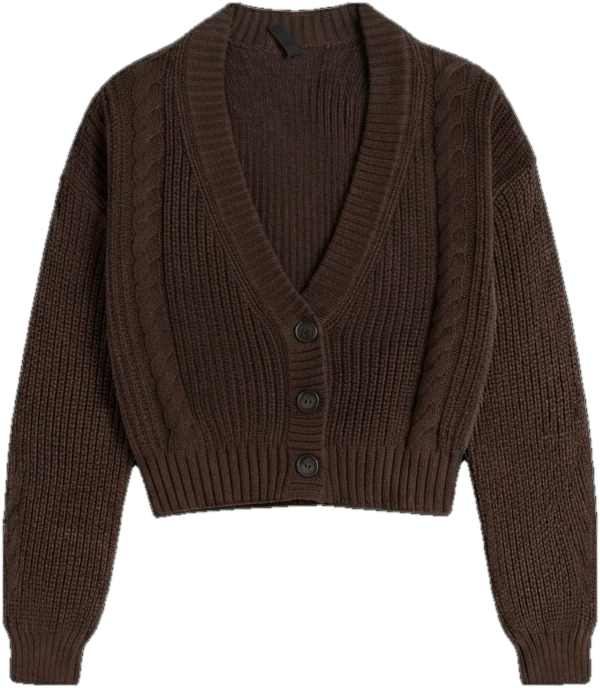
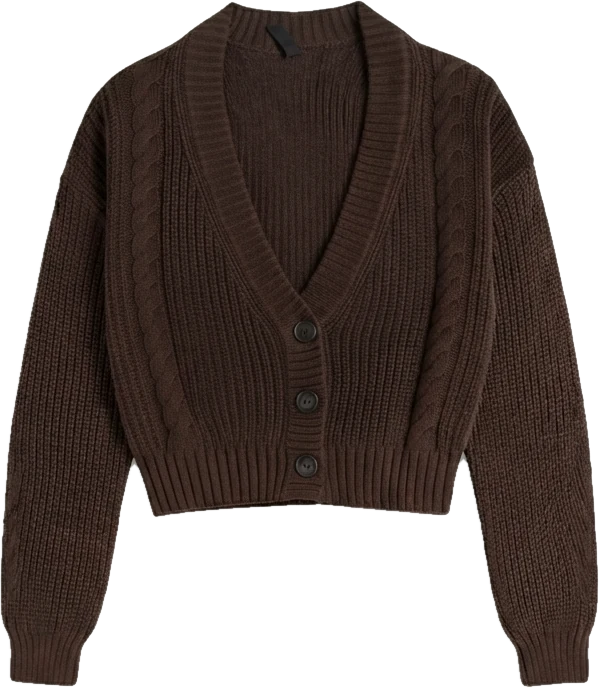
Détourage propre : bords nets, blanc opaque
Claude-Session: https://claude.ai/code/session_01DYeu4AaM2UGQj5ZDCmfRiN

diff --git a/index.html b/index.html
@@ -1209,7 +1209,7 @@
   let scId = null;
   // Photos détourées (fond transparent) hébergées sur le site
   const CUTOUTS = new Set([14, 15, 17, 18, 19, 20, 21, 22, 23, 24, 25, 26, 27, 28]);
-  const imgSrc = p => CUTOUTS.has(p.id) ? `cutouts/${p.id}.webp?v=2` : p.image_url;
+  const imgSrc = p => CUTOUTS.has(p.id) ? `cutouts/${p.id}.webp?v=3` : p.image_url;
 
   // ---------- Tailles : guide indicatif ----------
   const SIZE_GUIDE = {
